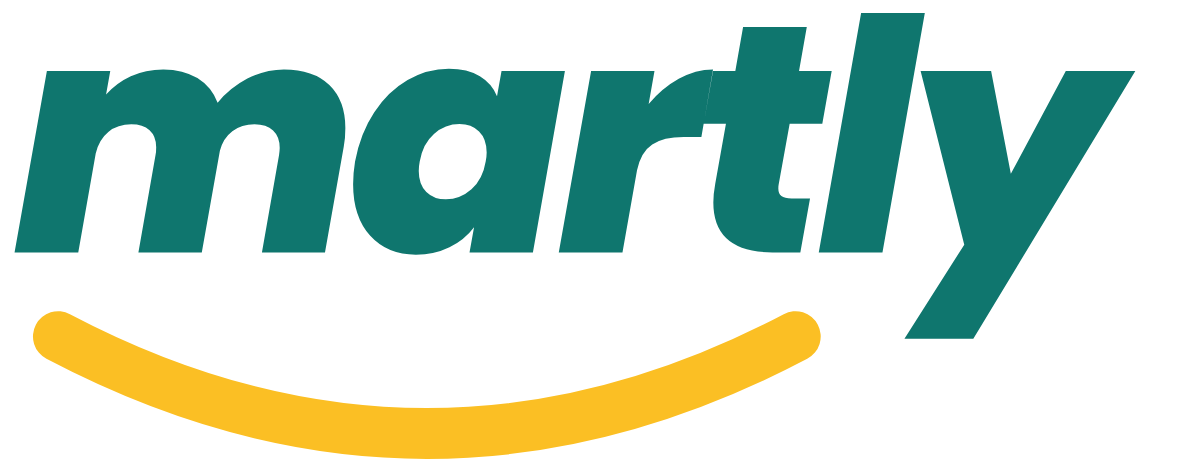
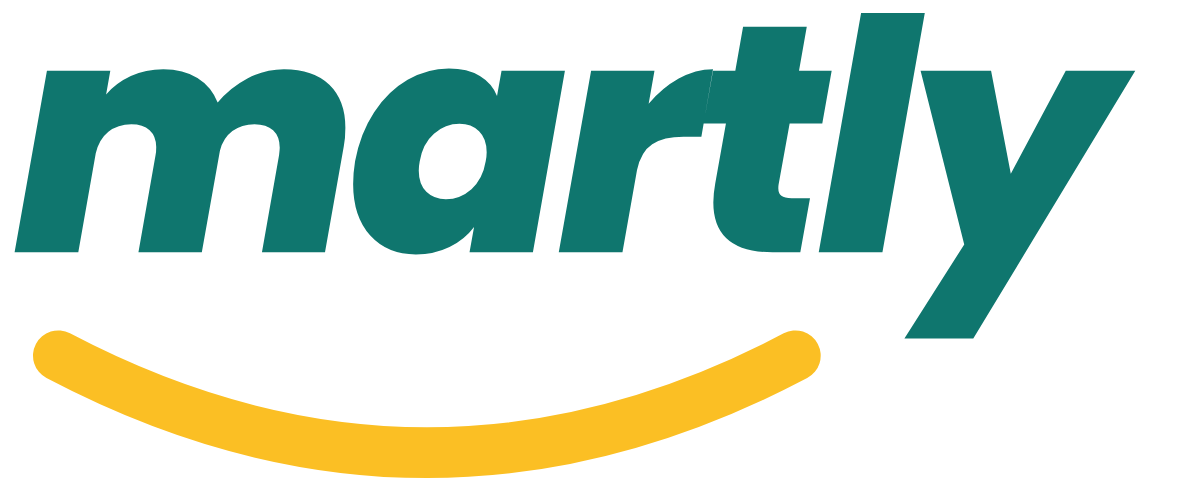
feat(branding): widen wordmark-to-smile gap to 18 units
Smile arc sits 18 units below the letters (was 12) across wordmarks, app
icons, splash and admin logos. Wordmark boxes on login, staff login and
splash grow to keep the logo width.

diff --git a/apps/mobile/app/(auth)/staff-login.tsx b/apps/mobile/app/(auth)/staff-login.tsx
@@ -114,7 +114,7 @@ const styles = StyleSheet.create({
   container: { flex: 1, backgroundColor: colors.background },
   inner: { flexGrow: 1, justifyContent: "center", padding: spacing.lg },
   logoSection: { alignItems: "center", marginBottom: 32 },
-  wordmark: { width: 160, height: 62 },
+  wordmark: { width: 160, height: 65 },
   badge: {
     flexDirection: "row", alignItems: "center", gap: 6, marginTop: 6,
     paddingHorizontal: 10, height: 26, borderRadius: 13, backgroundColor: "#f0fdfa",

diff --git a/apps/mobile/app/(auth)/login.tsx b/apps/mobile/app/(auth)/login.tsx
@@ -257,7 +257,7 @@ const styles = StyleSheet.create({
 
   // Logo
   logoSection: { alignItems: "center", marginBottom: 40 },
-  wordmark: { width: 180, height: 70 },
+  wordmark: { width: 180, height: 73 },
   subtitle: { fontSize: fontSize.lg, color: colors.textSecondary, marginTop: 4 },
 
   // Steps

diff --git a/apps/mobile/components/SplashScreen.tsx b/apps/mobile/components/SplashScreen.tsx
@@ -86,7 +86,7 @@ const styles = StyleSheet.create({
   },
   wordmark: {
     width: 200,
-    height: 77,
+    height: 81,
   },
   subtitle: {
     fontSize: 17,
